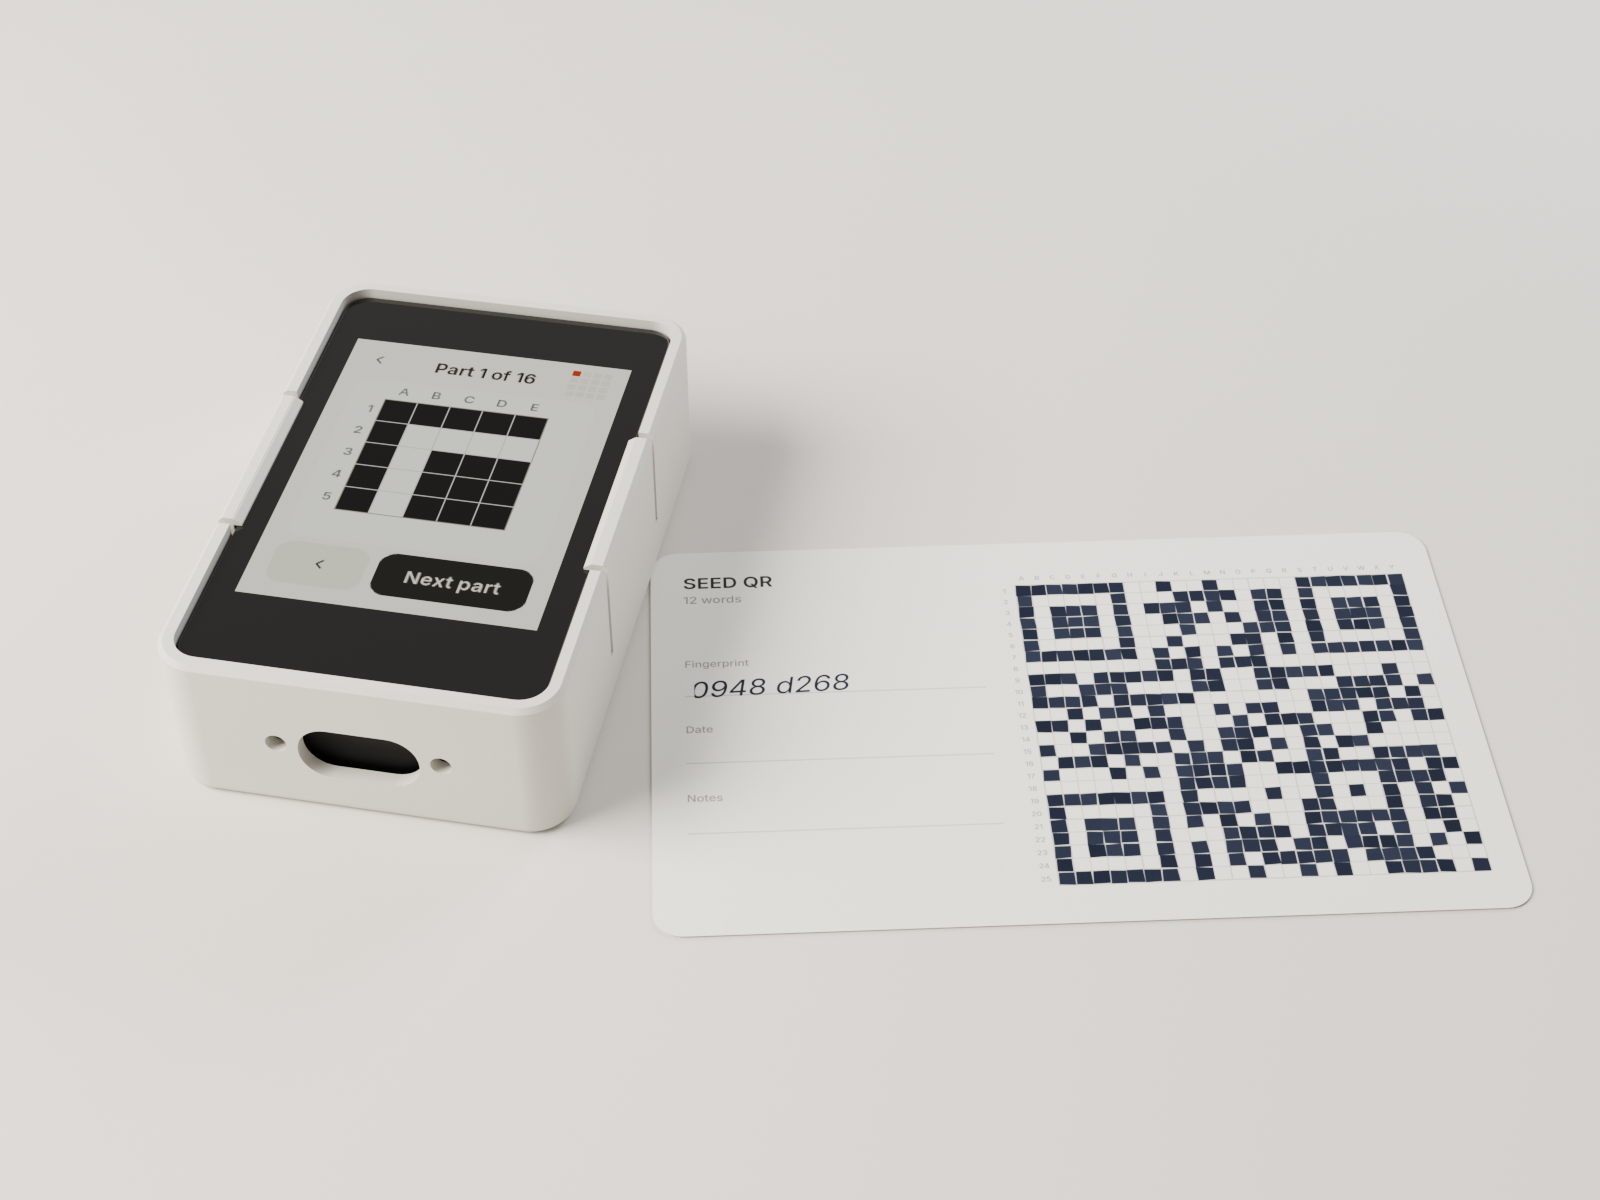
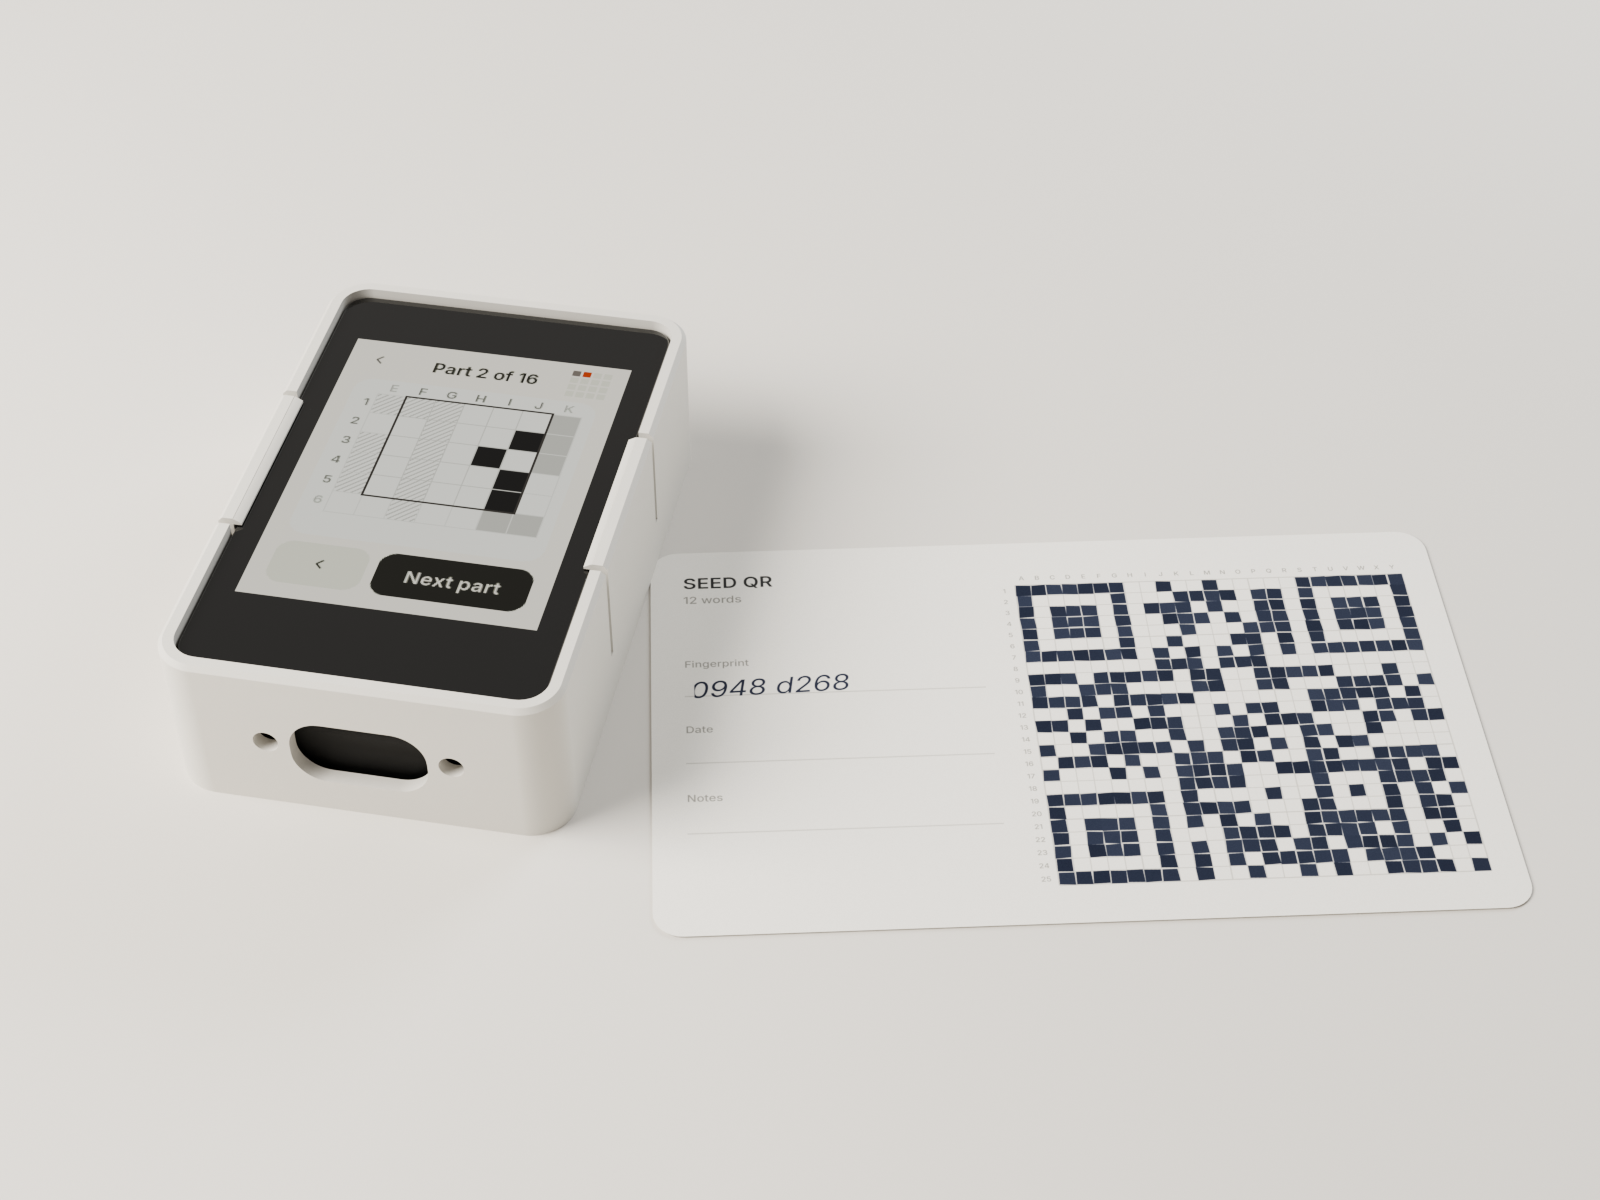
Keep the part card clear of the buttons, show part 2 in docs
- 25 px cells and a 4 px bottom pad: the card ended flush against the
  buttons (y 255 vs 256), now 9 px above them.
- The hatch reuses the major grid line colour instead of a copy of it.
- SIM_SHOTS saves the first part with squares to copy (part 1 is now all
  pre-printed); docs screens and the backup-copy render follow.

Changed region(s): [[0.1875, 0.3083, 0.3438, 0.4625], [0.1562, 0.5858, 0.2812, 0.6475]]

diff --git a/firmware/src/app/ui.cpp b/firmware/src/app/ui.cpp
@@ -1221,7 +1221,8 @@ static void grid_draw_cb(lv_event_t *e) {
         ld.p2.x = a.x1 + o + x2; ld.p2.y = a.y1 + o + y2;
         lv_draw_line(layer, &ld);
     };
-    const lv_color_t ghost = LV_COLOR_MAKE(0xC4, 0xC0, 0xB8), hatch = LV_COLOR_MAKE(0x9A, 0x96, 0x8E);
+    const lv_color_t ghost = LV_COLOR_MAKE(0xC4, 0xC0, 0xB8);
+    const lv_color_t major = LV_COLOR_MAKE(0x9A, 0x96, 0x8E), minor = LV_COLOR_MAKE(0xD4, 0xD0, 0xC8);
     const int s = g->cell;
     for (int r = 0; r < g->rows; r++)
         for (int c = 0; c < g->cols; c++) {
@@ -1231,12 +1232,11 @@ static void grid_draw_cb(lv_event_t *e) {
             if (g->ring && preprinted(x, y)) {
                 // Already on the card: diagonal hatch, not a square to fill.
                 for (int k = 4; k < 2 * s; k += 6)
-                    line(x1 + LV_MIN(k, s), y1 + LV_MAX(0, k - s), x1 + LV_MAX(0, k - s), y1 + LV_MIN(k, s), hatch);
+                    line(x1 + LV_MIN(k, s), y1 + LV_MAX(0, k - s), x1 + LV_MAX(0, k - s), y1 + LV_MIN(k, s), major);
             } else {
                 rect(x1, y1, x1 + s, y1 + s, active ? lv_color_black() : ghost);
             }
         }
-    const lv_color_t major = LV_COLOR_MAKE(0x9A, 0x96, 0x8E), minor = LV_COLOR_MAKE(0xD4, 0xD0, 0xC8);
     if (!g->ring) {
         for (int i = 0; i <= g->cols; i++)
             if (block_edge(g->c0 + i)) rect(i * s, 0, i * s, g->rows * s, major);
@@ -1354,14 +1354,14 @@ static void build_backup_block() {
     // The part plus one module around it (at most 7x7, also for the 6-wide
     // last part, which has no neighbour past the edge). One cell size for
     // every part, so squares don't change size between parts.
-    const int cell = 26;
+    const int cell = 25;
     int ac0 = (block_i % bs) * 5, ar0 = (block_i / bs) * 5;
     int acols = block_len(block_i % bs), arows = block_len(block_i / bs);
     int c0 = LV_MAX(ac0 - 1, 0), r0 = LV_MAX(ar0 - 1, 0);
     int c1 = LV_MIN(ac0 + acols, qr_n - 1), r1 = LV_MIN(ar0 + arows, qr_n - 1);
     block_view = {c0, r0, c1 - c0 + 1, r1 - r0 + 1, cell, true, ac0, ar0, acols, arows};
     const int gx = 22, gy = 18;
-    lv_obj_t *c = white_card(scr, CW, gy + 7 * cell + 6);
+    lv_obj_t *c = white_card(scr, CW, gy + 7 * cell + 4);   // clears the buttons
     lv_obj_align(c, LV_ALIGN_TOP_MID, 0, BAR + 2);
     lv_obj_set_pos(grid(c, &block_view), gx - 1, gy - 1);
     const lv_color_t lab = LV_COLOR_MAKE(0x6E, 0x6A, 0x62), lab_dim = LV_COLOR_MAKE(0xB4, 0xB0, 0xA8);

diff --git a/firmware/src/sim/main.cpp b/firmware/src/sim/main.cpp
@@ -240,7 +240,8 @@ static int run_shots(const char *dir) {
     ui_goto(UI_BACKUP_WORDS);   pump(300); save(dir, "18_backup_words");
     ui_goto(UI_BACKUP_CHOICE);  pump(300); save(dir, "19_backup_choice");
     ui_goto(UI_BACKUP_QR);      pump(300); save(dir, "20_backup_qr");
-    ui_goto(UI_BACKUP_BLOCK);   pump(300); save(dir, "21_backup_block_1");
+    // Part 1 is all pre-printed finder square; show the first part with squares to copy.
+    ui_goto(UI_BACKUP_BLOCK); ui_backup_next(); pump(300); save(dir, "21_backup_block_1");
     while (ui_current() == UI_BACKUP_BLOCK) ui_backup_next();
     if (ui_current() != UI_BACKUP_SCAN) { fprintf(stderr, "no card check after the last block\n"); return 1; }
     setenv("SIM_CAMERA", "sim/samples/vector4_compact_12word.png", 1);   // somebody else's seed
